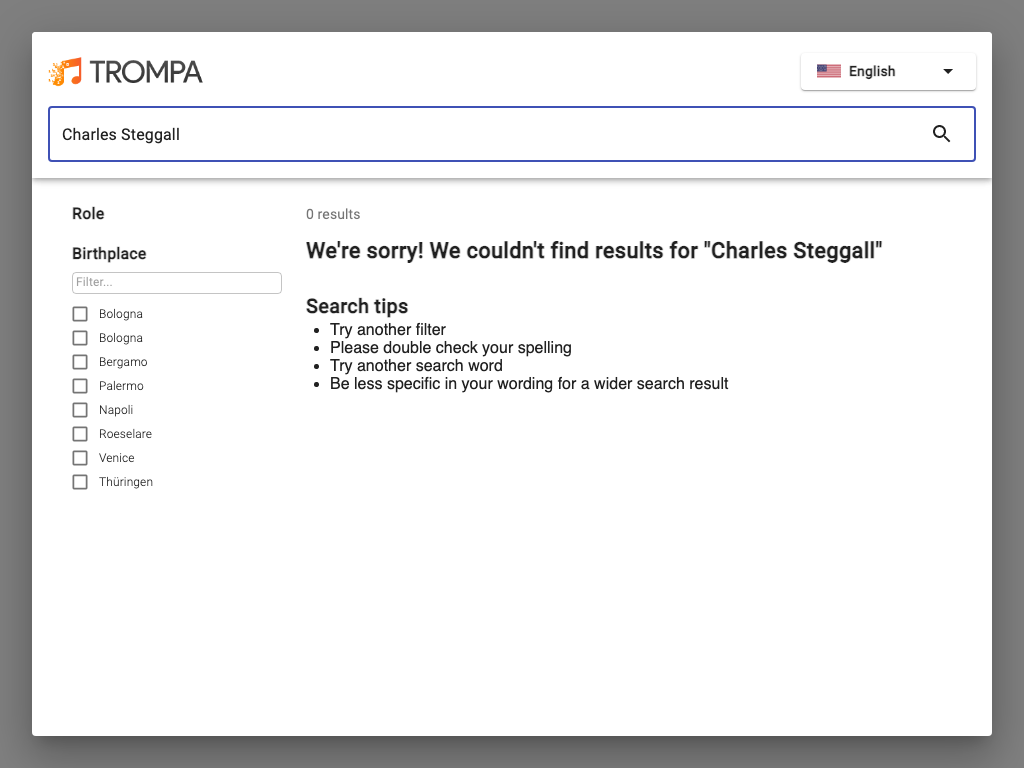
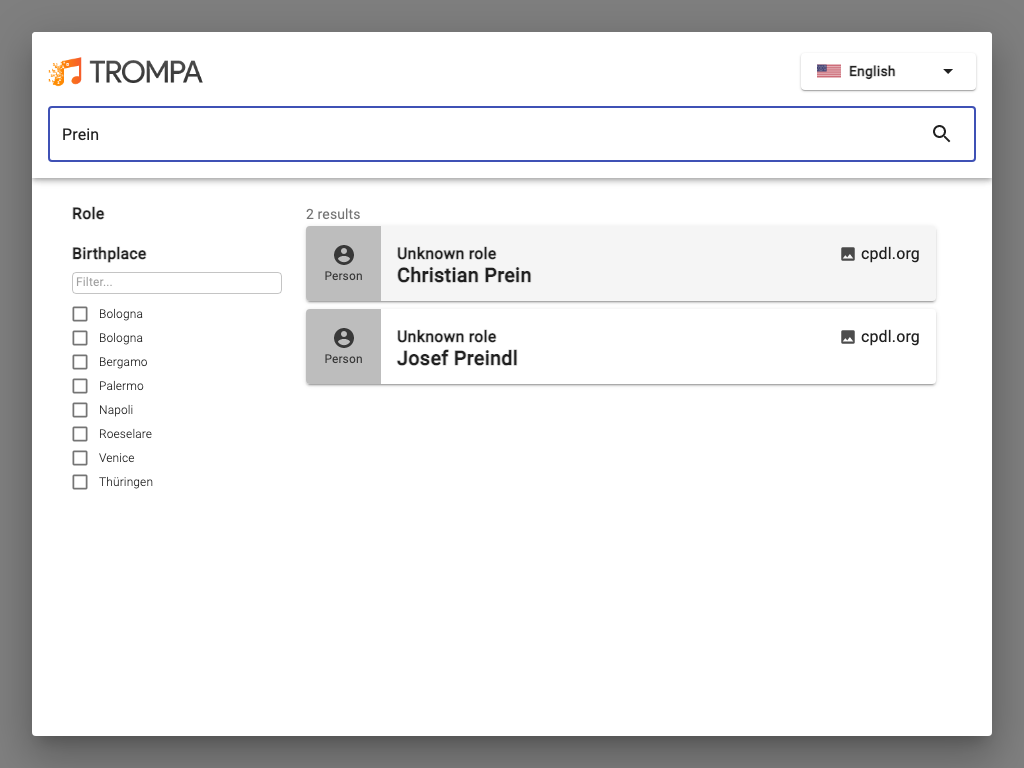
feat(project): add all test scenarios for person modal

Changed region(s): [[0.2812, 0.2812, 0.9062, 0.5312], [0.8125, 0.4062, 0.9062, 0.4688], [0.0625, 0.1562, 0.1875, 0.1875]]

diff --git a/multimodal-component_test.js b/multimodal-component_test.js
@@ -13,7 +13,6 @@ Scenario('Loads home page', ({ I }) => {
   I.amOnPage('/');
   I.saveScreenshot(screenshotPath);
   I.seeVisualDiff(screenshotPath, differenceOptions);
-
   I.see('No selection');
 });
 
@@ -33,7 +32,6 @@ Scenario('Opens person modal with expected content', ({ I }) => {
   I.see('Birthplace');
   I.see('Bologna');
   I.see('Palermo');
-
   I.say('First result:');
   I.see('Person', locatorFirstSearchResult);
   I.see('Unknown role', locatorFirstSearchResult);
@@ -50,7 +48,6 @@ Scenario('Selects person from modal', ({ I }) => {
   I.click('Charles Steggall', locatorFirstSearchResult);
   I.saveScreenshot(screenshotPath);
   I.seeVisualDiff(screenshotPath, differenceOptions);
-
   I.see('Charles Steggall');
 });
 
@@ -59,21 +56,139 @@ Scenario('Opens person source link from modal', ({ I }) => {
   I.click('Select', locatorSelectPersonModal);
   I.waitForElement(locatorHeaderFiftyResults, secondsToWait);
   I.click('cpdl.org', locatorFirstSearchResult);
-
   I.amOnPage('https://cpdl.org/wiki/index.php/Charles_Steggall');
 });
 
-Scenario('Gives results that match the person query within modal', ({ I }) => {
+Scenario('Gives results that match query within modal', ({ I }) => {
   const screenshotPath = "modal_with_person_searched.png";
 
   I.amOnPage('/');
   I.click('Select', locatorSelectPersonModal);
   I.waitForElement(locatorHeaderFiftyResults, secondsToWait);
+  I.fillField('search', 'Prein');
+  I.waitForElement('//h6[contains(text(), "2 results")]', secondsToWait);
+  I.see('Christian Prein');
+  I.see('Josef Preindl');
+  I.saveScreenshot(screenshotPath);
+  I.seeVisualDiff(screenshotPath, differenceOptions);
+});
 
-  I.fillField('search', 'Charles Steggall');
-  I.waitForElement('//p[contains(text(), "sorry")]', secondsToWait);
-  I.waitForElement('//p[contains(text(), "Charles Steggal")]', secondsToWait);
+Scenario('All relevant source links display in modal', ({ I }) => {
+  const screenshotPath = "modal_with_multiple_source_links.png";
 
+  I.amOnPage('/');
+  I.click('Select', locatorSelectPersonModal);
+  I.waitForElement(locatorHeaderFiftyResults, secondsToWait);
+  I.fillField('search', 'Giache');
+  I.waitForElement('//h6[contains(text(), "7 results")]', secondsToWait);
+  I.see('cpdl.org');
+  I.see('musicbrainz.org');
+  I.see('imslp.org');
+  I.see('isni.org');
+  I.see('id.loc.gov');
+  I.saveScreenshot(screenshotPath);
+  I.seeVisualDiff(screenshotPath, differenceOptions);
+});
+
+Scenario('Filters results with composer filter within modal', ({ I }) => {
+  const screenshotPath = "modal_with_composer_filter_selected.png";
+
+  I.amOnPage('/');
+  I.click('Select', locatorSelectPersonModal);
+  I.waitForElement(locatorHeaderFiftyResults, secondsToWait);
+  I.checkOption('Composer');
+  I.waitForElement('//p[contains(text(), "Franz")]', secondsToWait);
+  I.see('Tod B. Galloway', locatorFirstSearchResult);
+  I.see('1 selected');
+  I.saveScreenshot(screenshotPath);
+  I.seeVisualDiff(screenshotPath, differenceOptions);
+});
+
+Scenario('Filters results with pianist filter within modal', ({ I }) => {
+  const screenshotPath = "modal_with_pianist_filter_selected.png";
+
+  I.amOnPage('/');
+  I.click('Select', locatorSelectPersonModal);
+  I.waitForElement(locatorHeaderFiftyResults, secondsToWait);
+  I.checkOption('Pianist');
+  I.waitForElement('//h6[contains(text(), "1 result")]', secondsToWait);
+  I.see('1 selected');
+  I.saveScreenshot(screenshotPath);
+  I.seeVisualDiff(screenshotPath, differenceOptions);
+});
+
+Scenario('Gives results that match query and applied filter within modal', ({ I }) => {
+  const screenshotPath = "modal_with_person_searched_and_filter_selected.png";
+
+  I.amOnPage('/');
+  I.click('Select', locatorSelectPersonModal);
+  I.waitForElement(locatorHeaderFiftyResults, secondsToWait);
+  I.checkOption('Composer');
+  I.waitForElement('//p[contains(text(), "Franz")]', secondsToWait);
+  I.see('Tod B. Galloway', locatorFirstSearchResult);
+
+  I.fillField('search', 'Galloway');
+  I.waitForElement('//h6[contains(text(), "1 result")]', secondsToWait);
+  I.see('Tod B. Galloway');
+  I.saveScreenshot(screenshotPath);
+  I.seeVisualDiff(screenshotPath, differenceOptions);
+});
+
+Scenario('Removing multiple filters works as expected', ({ I }) => {
+  I.amOnPage('/');
+  I.click('Select', locatorSelectPersonModal);
+  I.waitForElement(locatorHeaderFiftyResults, secondsToWait);
+  I.fillField('search', 'Piotr');
+  I.waitForElement('//h6[contains(text(), "4 results")]', secondsToWait);
+  I.checkOption('Composer');
+  I.checkOption('Pianist');
+  I.waitForElement('//h6[contains(text(), "2 results")]', secondsToWait);
+  I.click('clear');
+  I.waitForElement('//h6[contains(text(), "4 results")]', secondsToWait);
+});
+
+Scenario('Adding multiple filters works as expected', ({ I }) => {
+  const screenshotPath = "modal_with_multiple_filters_selected.png";
+
+  I.amOnPage('/');
+  I.click('Select', locatorSelectPersonModal);
+  I.waitForElement(locatorHeaderFiftyResults, secondsToWait);
+
+  I.fillField('search', 'Piotr');
+  I.waitForElement('//h6[contains(text(), "4 results")]', secondsToWait);
+  I.checkOption('Composer');
+  I.checkOption('Pianist');
+  I.waitForElement('//h6[contains(text(), "2 results")]', secondsToWait);
+  I.see('Piotr Anderszewski');
+  I.see('Pyotr Ilyich Tchaikovsky');
+  I.saveScreenshot(screenshotPath);
+  I.seeVisualDiff(screenshotPath, differenceOptions);
+});
+
+Scenario('Filters results with birthplace filter within modal', ({ I }) => {
+  const screenshotPath = "modal_with_birthplace_filter_selected.png";
+
+  I.amOnPage('/');
+  I.click('Select', locatorSelectPersonModal);
+  I.waitForElement(locatorHeaderFiftyResults, secondsToWait);
+  I.checkOption('Palermo');
+  I.waitForElement('//h6[contains(text(), "1 result")]', secondsToWait);
+  I.see('1 selected');
+  I.see('Alessandro Scarlatti');
+  I.saveScreenshot(screenshotPath);
+  I.seeVisualDiff(screenshotPath, differenceOptions);
+});
+
+Scenario('Narrows down birthplace filters with filter search box within modal', ({ I }) => {
+  const screenshotPath = "modal_with_birthplace_filter_search_box_used.png";
+
+  I.amOnPage('/');
+  I.click('Select', locatorSelectPersonModal);
+  I.waitForElement(locatorHeaderFiftyResults, secondsToWait);
+  I.fillField('search-filter', 'Bologna');
+  I.dontSee('Palermo');
+  I.dontSee('Napoli');
+  I.dontSee('Roeselare');
   I.saveScreenshot(screenshotPath);
   I.seeVisualDiff(screenshotPath, differenceOptions);
 });

diff --git a/src/components/SearchFilter/SearchFilter.js b/src/components/SearchFilter/SearchFilter.js
@@ -74,6 +74,7 @@ class SearchFilter extends Component {
             className={classes.filterTextField}
             inputProps={{ className: classes.filterInput }}
             InputProps={{
+              name        : 'search-filter',
               classes     : { adornedEnd: classes.filterInputAdornedEnd },
               endAdornment: this.state.searchValue.length > 0 && (
                 <InputAdornment position="end">
